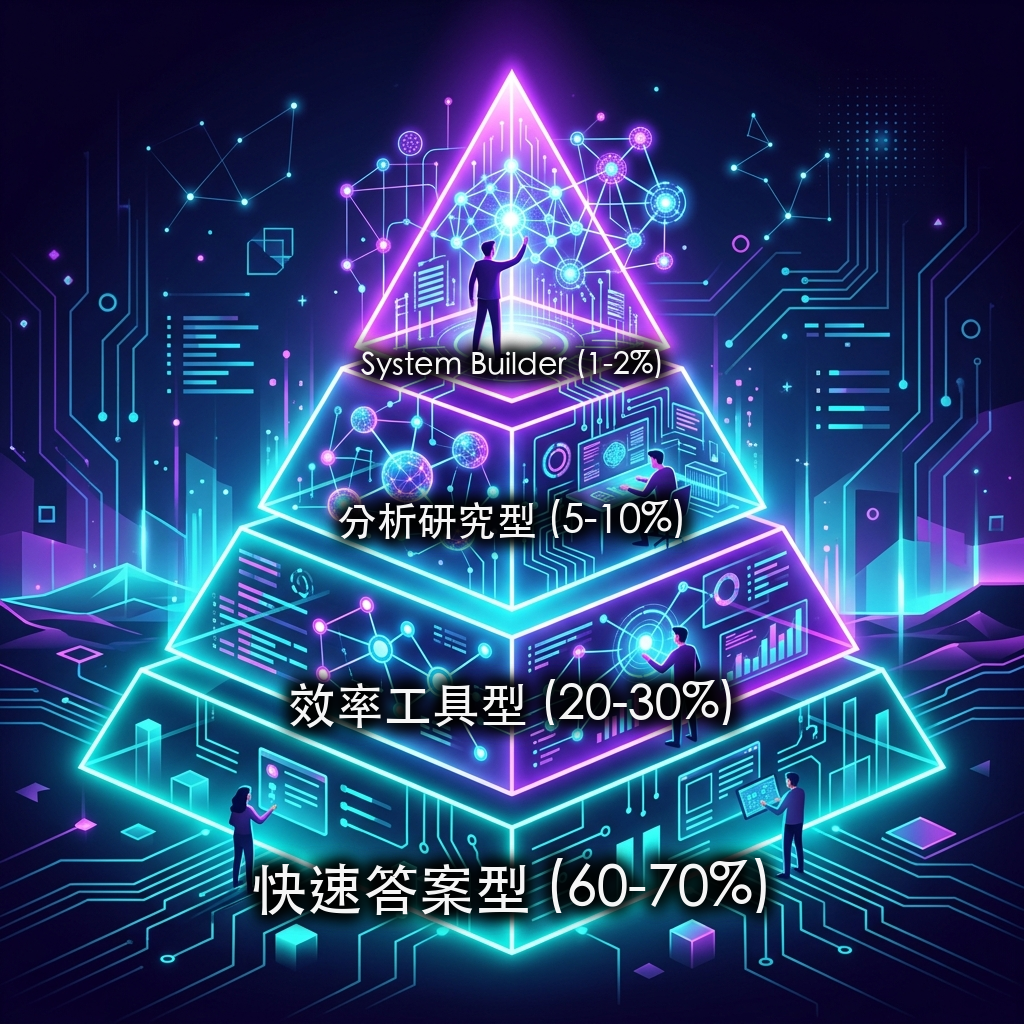
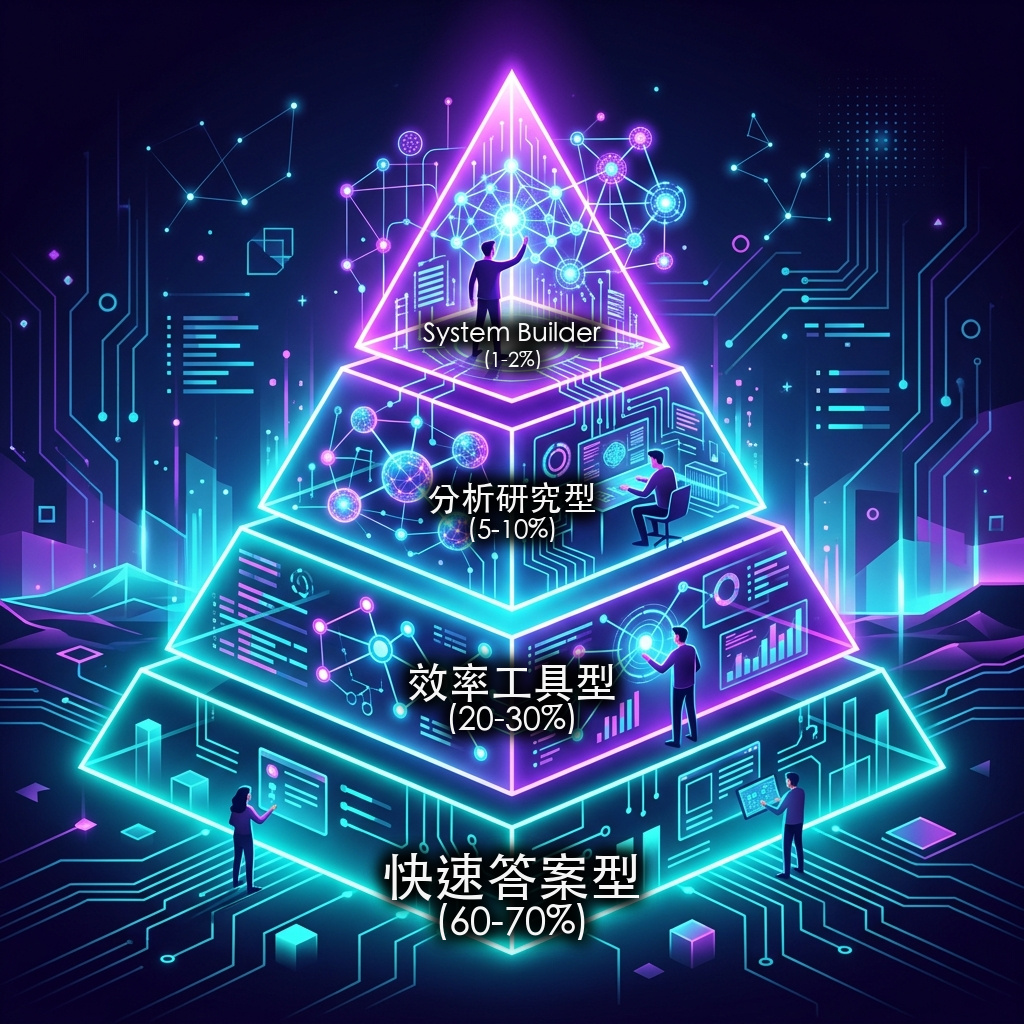
style(blog): split text into two lines to fit exactly within pyramid borders

diff --git a/add_text_ai_levels.py b/add_text_ai_levels.py
@@ -1,5 +1,4 @@
 from PIL import Image, ImageDraw, ImageFont, ImageFilter
-import os
 
 font_path = "/System/Library/Fonts/STHeiti Medium.ttc"
 image_path = "/Users/yuting/Documents/GitHub/hugo/link-blog/static/images/ai-users-levels.png"
@@ -8,60 +7,65 @@ source_raw_path = "/Users/yuting/.gemini/antigravity/brain/ef23cb45-4062-4562-96
 try:
     img = Image.open(source_raw_path).convert("RGBA")
     
-    font_path = "/System/Library/Fonts/STHeiti Medium.ttc"
-    
     levels = [
-        {"text": "System Builder (1-2%)", "y": 350,  "size": 30},
-        {"text": "分析研究型 (5-10%)",      "y": 500,  "size": 40},
-        {"text": "效率工具型 (20-30%)",      "y": 680,  "size": 48},
-        {"text": "快速答案型 (60-70%)",      "y": 860,  "size": 56}
+        {"text": "System Builder", "subtext": "(1-2%)",  "y": 320,  "size": 26, "sub_size": 20},
+        {"text": "分析研究型",      "subtext": "(5-10%)", "y": 480,  "size": 34, "sub_size": 26},
+        {"text": "效率工具型",      "subtext": "(20-30%)", "y": 660,  "size": 42, "sub_size": 32},
+        {"text": "快速答案型",      "subtext": "(60-70%)", "y": 850,  "size": 52, "sub_size": 38}
     ]
     
     image_width = img.size[0]
     
-    # Create an image just for the shadow/glow
     shadow_img = Image.new('RGBA', img.size, (0, 0, 0, 0))
     d_shadow = ImageDraw.Draw(shadow_img)
     
-    # Draw thick shadow text to make it legible against bright background
-    for level in levels:
+    def draw_text_lines(draw_obj, level, is_shadow=False):
+        font_main = ImageFont.truetype(font_path, level["size"])
+        font_sub = ImageFont.truetype(font_path, level["sub_size"])
+        
+        # Draw Main Text
         text = level["text"]
-        font = ImageFont.truetype(font_path, level["size"])
-        bbox = font.getbbox(text)
+        bbox = font_main.getbbox(text)
         text_w = bbox[2] - bbox[0]
         x = (image_width - text_w) / 2
         y = level["y"]
-        d_shadow.text((x, y), text, font=font, fill=(0, 0, 0, 255))
-        d_shadow.text((x-2, y-2), text, font=font, fill=(0, 0, 0, 255))
-        d_shadow.text((x+2, y+2), text, font=font, fill=(0, 0, 0, 255))
-
-    # Apply Gaussian Blur to create a dark halo (shadow) instead of a hard box
-    shadow_img = shadow_img.filter(ImageFilter.GaussianBlur(8))
+        
+        fill_color = (0, 0, 0, 255) if is_shadow else (255, 255, 255, 245)
+        
+        draw_obj.text((x, y), text, font=font_main, fill=fill_color)
+        if is_shadow:
+            draw_obj.text((x-2, y-2), text, font=font_main, fill=fill_color)
+            draw_obj.text((x+2, y+2), text, font=font_main, fill=fill_color)
+            
+        # Draw Subtext just below
+        subtext = level["subtext"]
+        bbox_sub = font_sub.getbbox(subtext)
+        sub_w = bbox_sub[2] - bbox_sub[0]
+        sub_x = (image_width - sub_w) / 2
+        sub_y = y + bbox[3] - bbox[1] + 5 # 5px padding below main text
+        
+        draw_obj.text((sub_x, sub_y), subtext, font=font_sub, fill=fill_color)
+        if is_shadow:
+            draw_obj.text((sub_x-2, sub_y-2), subtext, font=font_sub, fill=fill_color)
+            draw_obj.text((sub_x+2, sub_y+2), subtext, font=font_sub, fill=fill_color)
     
-    # Layer the shadow multiple times to make it darker and more effective
+    for level in levels:
+        draw_text_lines(d_shadow, level, is_shadow=True)
+
+    shadow_img = shadow_img.filter(ImageFilter.GaussianBlur(8))
     for _ in range(4):
         img = Image.alpha_composite(img, shadow_img)
     
-    # Now draw the bright white text on top
     text_img = Image.new('RGBA', img.size, (0, 0, 0, 0))
     d_text = ImageDraw.Draw(text_img)
     
     for level in levels:
-        text = level["text"]
-        font = ImageFont.truetype(font_path, level["size"])
-        bbox = font.getbbox(text)
-        text_w = bbox[2] - bbox[0]
-        x = (image_width - text_w) / 2
-        y = level["y"]
-        # Add a subtle cyan/purple hue to the text for integration
-        # Or just pure white with high opacity
-        d_text.text((x, y), text, font=font, fill=(255, 255, 255, 245))
+        draw_text_lines(d_text, level, is_shadow=False)
         
     img = Image.alpha_composite(img, text_img)
-    
     img = img.convert("RGB")
     img.save(image_path)
-    print("Successfully added smooth text to the image!")
+    print("Successfully added split text to the image!")
 
-except Exception as e:
+except Exception as e: # pylint: disable=broad-except
     print(f"Error: {e}")

diff --git a/link-blog/content/posts/personal-ai-os.md b/link-blog/content/posts/personal-ai-os.md
@@ -17,7 +17,7 @@ cover:
 
 ## 一、 了解自己在哪個階段：AI 使用者的四個層次
 
-![AI 使用者的四個層次](/images/ai-users-levels.png?v=5)
+![AI 使用者的四個層次](/images/ai-users-levels.png?v=6)
 
 在目前的 AI 應用生態中，我們大致可以將使用者的層次與特質分為以下四類：
 
